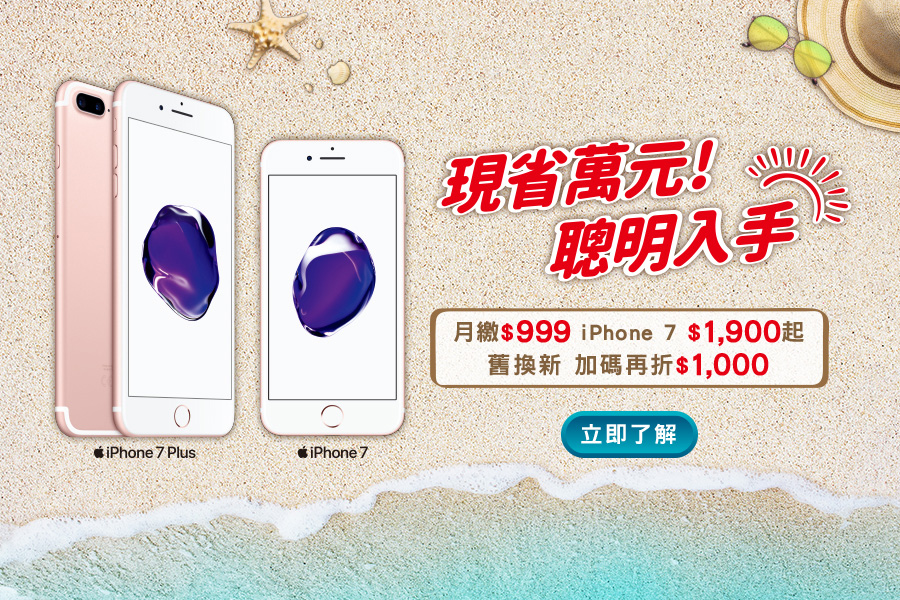
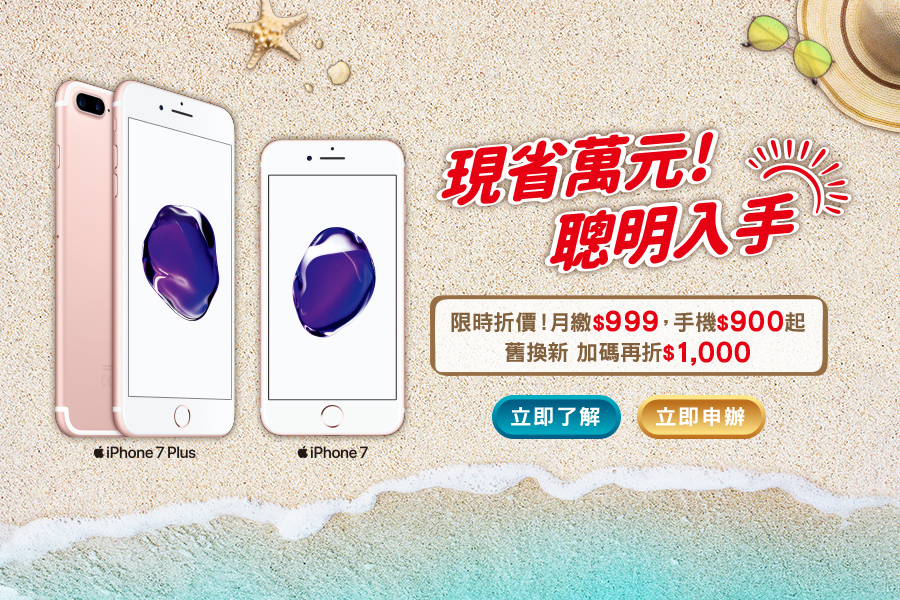
iPhone
首頁banner修改 PC/M，增加按鈕連結
新精選新增banner PC/M，連結設定
方案內容修改
保護文字修改
iPhone 7 費用 三方案全數修改價格

Changed region(s): [[0.4667, 0.21, 0.9644, 0.78]]

diff --git a/demo/iPhone/new.html b/demo/iPhone/new.html
@@ -36,10 +36,12 @@
 		<map name="map_01">
 			<area target="_blank" alt="" title="" onclick="javascript:ga('send', 'event', 'iphoneXS', 'action', 'Buy_from_new');" href="https://iphone-eshop.cdn.hinet.net/Next.html?_ga=2.130746831.1781421612.1537203179-28648395.1509459132" coords="531,341,652,388" shape="rect">
 		</map> -->
+		<a href="https://www.cht.com.tw/home/consumer/mobservice/device/phones#!_keyword%3AiPhone%207%26_orderby%3A%26_page%3A1"><img class="desktop-only" src="assets/images/banner_new.jpg" /></a>
+		<a href="https://www.cht.com.tw/home/consumer/mobservice/device/phones#!_keyword%3AiPhone%207%26_orderby%3A%26_page%3A1"><img style="width:100%" class="mobile-only" src="assets/images/banner_new_m.jpg" /></a>
 		<!-- <h1 style="line-height:150%;font-size:180%;text-shadow:3px 3px #ddd;color:#ff0000">舊換新 iPhone XS Max / XR最高現省$28,000</h1> -->
-		<h1 style="color:#ff0000;font-size:1.5em;line-height:1.5em;">【超值優惠】<div class="mobile-only"><br></div>月繳$999，iPhone 7 <div class="mobile-only"><br></div>購機價$1,900起聰明入手！</h1>
-		<h1 style="color:#ff0000;font-size:1.5em;line-height:1.5em;">【限時折價】<div class="mobile-only"><br></div>指定機型限時折$2,000　<div class="mobile-only"><br></div>搭配舊換新購機加碼再折$1,000</h1>
-		<h1 style="color:#ff0000;font-size:1.5em;line-height:1.5em;">【限時優惠】<div class="mobile-only"><br></div>買指定機型獨享<img src="assets/images/wordgym_logo.png" /><div class="mobile-only"><br></div>免費體驗1個月</h1>
+		<h1 style="color:#ff0000;font-size:1.35em;line-height:1.5em;">【超值優惠】<div class="mobile-only"><br></div>月繳$999，iPhone 7 <div class="mobile-only"><br></div>購機價$900，現省萬元，聰明入手！</h1>
+		<h1 style="color:#ff0000;font-size:1.35em;line-height:1.5em;">【限時折價】<div class="mobile-only"><br></div>指定機型限時折$2,000　<div class="mobile-only"><br></div>搭配舊換新購機加碼再折$1,000</h1>
+		<h1 style="color:#ff0000;font-size:1.35em;line-height:1.5em;">【限時優惠】<div class="mobile-only"><br></div>買指定機型獨享<img src="assets/images/wordgym_logo.png" /><div class="mobile-only"><br></div>免費體驗1個月</h1>
 		<!-- <h1 style="color:#ff0000;font-size:1.5em;line-height:1.5em;"> 【行動VIP】 購機最高再折$5,000</h1> -->
 		<!-- <h1 style="color:#000;font-size:1.5em;line-height:1.5em;">指定銀行刷卡購機享24期0利率 滿額登錄再送刷卡金！
 			<br class="e_mobile"> <a onclick="javascript:ga('send', 'event', 'iphoneXS', 'action', 'Raffledraw_from_new');"
@@ -66,7 +68,7 @@
 			<table>
 				<tr>
 					<td>活動期間：</td>
-					<td>自108/04/15起至108/06/30</td>
+					<td>自108/04/25起至108/06/30</td>
 				</tr>
 				<tr>
 					<td>申辦地點：</td>
@@ -233,33 +235,43 @@
 				</tr>
 				<tr>
 					<td rowspan="2">iPhone 7
-						<br><b>全新優惠價</b>
+						<br><b>限時折價</b>
 					</td>
 					<td class="newer">32GB</td>
-					<td>6,900</td>
-					<td>1,900</td>
+					<td><span style="text-decoration:line-through;color:#000;">6,900</span><div class="e_pc"></div><br class="e_mobile">
+					  <span>5,900</span></td>
+					<td><span style="text-decoration:line-through;color:#000;">1,900</span><div class="e_pc"></div><br class="e_mobile">
+					  <span>900</span></td>
 					<td>0</td>
 				</tr>
 				<tr>
 					<td>128GB</td>
-					<td>10,900</td>
-					<td>5,900</td>
-					<td>1,900</td>
+					<td><span style="text-decoration:line-through;color:#000;">10,900</span><div class="e_pc"></div><br class="e_mobile">
+					  <span>9,900</span></td>
+					<td><span style="text-decoration:line-through;color:#000;">5,900</span><div class="e_pc"></div><br class="e_mobile">
+				    <span>4,900</span></td>
+					<td><span style="text-decoration:line-through;color:#000;">1,900</span><div class="e_pc"></div><br class="e_mobile">
+				    <span>900</span></td>
 				</tr>
 				<tr>
 					<td rowspan="2">iPhone 7 Plus
-						<br><b>全新優惠價</b>
+						<br><b>限時折價</b>
 					</td>
 					<td class="newer">32GB</td>
-					<td>9,400</td>
-					<td>3,900</td>
+					<td><span style="text-decoration:line-through;color:#000;">9,400</span><div class="e_pc"></div><br class="e_mobile">
+				    <span>8,400</span></td>
+					<td><span style="text-decoration:line-through;color:#000;">3,900</span><div class="e_pc"></div><br class="e_mobile">
+					  <span>2,900</span></td>
 					<td>0</td>
 				</tr>
 				<tr>
 					<td>128GB</td>
-					<td>13,400</td>
-					<td>7,900</td>
-					<td>1,900</td>
+					<td><span style="text-decoration:line-through;color:#000;">13,400</span><div class="e_pc"></div><br class="e_mobile">
+				    <span>12,400</span></td>
+					<td><span style="text-decoration:line-through;color:#000;">7,900</span><div class="e_pc"></div><br class="e_mobile">
+				    <span>6,900</span></td>
+					<td><span style="text-decoration:line-through;color:#000;">1,900</span><div class="e_pc"></div><br class="e_mobile">
+					 <span> 900</span></td>
 				</tr>
 			</tbody>
 		</table>
@@ -420,33 +432,43 @@
 	</tr>
 	<tr>
 		<td rowspan="2">iPhone 7
-			<br><b>全新優惠價</b>
+			<br><b>限時折價</b>
 		</td>
 		<td class="newer">32GB</td>
-		<td>7,900</td>
-		<td>3,900</td>
+		<td><span style="text-decoration:line-through;color:#000;">7,900</span><div class="e_pc"></div><br class="e_mobile">
+	    <span>6,900</span></td>
+		<td><span style="text-decoration:line-through;color:#000;">3,900</span><div class="e_pc"></div><br class="e_mobile">
+		  <span>2,900</span></td>
 		<td>0</td>
 	</tr>
 	<tr>
 		<td>128GB</td>
-		<td>11,900</td>
-		<td>7,900</td>
-		<td>3,900</td>
+		<td><span style="text-decoration:line-through;color:#000;">11,900</span><div class="e_pc"></div><br class="e_mobile">
+		  <span>10,900</span></td>
+		<td><span style="text-decoration:line-through;color:#000;">7,900</span><div class="e_pc"></div><br class="e_mobile">
+	    <span>6,900</span></td>
+		<td><span style="text-decoration:line-through;color:#000;">3,900</span><div class="e_pc"></div><br class="e_mobile">
+	    <span>2,900</span></td>
 	</tr>
 	<tr>
 		<td rowspan="2">iPhone 7 Plus
-			<br><b>全新優惠價</b>
+			<br><b>限時折價</b>
 		</td>
 		<td class="newer">32GB</td>
-		<td>10,400</td>
-		<td>5,900</td>
+		<td><span style="text-decoration:line-through;color:#000;">10,400<br>
+		  <span>9,400</span></td>
+		<td><span style="text-decoration:line-through;color:#000;">5,900<br>
+	    <span>4,900</span></td>
 		<td>0</td>
 	</tr>
 	<tr>
 		<td>128GB</td>
-		<td>14,400</td>
-		<td>9,900</td>
-		<td>3,900</td>
+		<td><span style="text-decoration:line-through;color:#000;">14,400</span><div class="e_pc"></div><br class="e_mobile">
+		  <span>13,400</span></td>
+		<td><span style="text-decoration:line-through;color:#000;">9,900</span><div class="e_pc"></div><br class="e_mobile">
+	    <span>8,900</span></td>
+		<td><span style="text-decoration:line-through;color:#000;">3,900</span><div class="e_pc"></div><br class="e_mobile">
+	    <span>2,900</span></td>
 	</tr>
 
 	</tbody>
@@ -607,33 +629,45 @@
 			</tr>
 			<tr>
 					<td rowspan="2">iPhone 7
-						<br><b>全新優惠價</b>
+						<br><b>限時折價</b>
 					</td>
 					<td class="newer">32GB</td>
-					<td>8,900</td>
-					<td>5,900</td>
-					<td>1,900</td>
+					<td><span style="text-decoration:line-through;color:#000;">8,900</span><div class="e_pc"></div><br class="e_mobile">
+				    <span>7,900</span></td>
+					<td><span style="text-decoration:line-through;color:#000;">5,900</span><div class="e_pc"></div><br class="e_mobile">
+				    <span>4,900</span></td>
+					<td><span style="text-decoration:line-through;color:#000;">1,900</span><div class="e_pc"></div><br class="e_mobile">
+					  <span>900</span></td>
 				</tr>
 				<tr>
 					<td>128GB</td>
-					<td>12,900</td>
-					<td>9,900</td>
-					<td>5,900</td>
+					<td><span style="text-decoration:line-through;color:#000;">12,900</span><div class="e_pc"></div><br class="e_mobile">
+				    <span>11,900</span></td>
+					<td><span style="text-decoration:line-through;color:#000;">9,900</span><div class="e_pc"></div><br class="e_mobile">
+					  <span>8,900</span></td>
+					<td><span style="text-decoration:line-through;color:#000;">5,900</span><div class="e_pc"></div><br class="e_mobile">
+				    <span>4,900</span></td>
 				</tr>
 				<tr>
 					<td rowspan="2">iPhone 7 Plus
-						<br><b>全新優惠價</b>
+						<br><b>限時折價</b>
 					</td>
 					<td class="newer">32GB</td>
-					<td>11,400</td>
-					<td>7,900</td>
-					<td>1,900</td>
+					<td><span style="text-decoration:line-through;color:#000;">11,400</span><div class="e_pc"></div><br class="e_mobile">
+					  <span>10,400</span></td>
+					<td><span style="text-decoration:line-through;color:#000;">7,900</span><div class="e_pc"></div><br class="e_mobile">
+				    <span>6,900</span></td>
+					<td><span style="text-decoration:line-through;color:#000;">1,900</span><div class="e_pc"></div><br class="e_mobile">
+				    <span>900</span></td>
 				</tr>
 				<tr>
 					<td>128GB</td>
-					<td>15,400</td>
-					<td>11,900</td>
-					<td>5,900</td>
+					<td><span style="text-decoration:line-through;color:#000;">15,400</span><div class="e_pc"></div><br class="e_mobile">
+				    <span>14,400</span></td>
+					<td><span style="text-decoration:line-through;color:#000;">11,900</span><div class="e_pc"></div><br class="e_mobile">
+				    <span>10,900</span></td>
+					<td><span style="text-decoration:line-through;color:#000;">5,900</span><div class="e_pc"></div><br class="e_mobile">
+					  <span>4,900</span></td>
 				</tr>
 		</tbody>
 	</table>
@@ -643,10 +677,11 @@
 			 class="fa fa-play-circle" aria-hidden="true"></i>保固服務說明</a>
 	</div>
 	<div class="note3">
-		<h3><span class="h3-border">貼心小叮嚀</h3>
+	  <h3><span class="h3-border">貼心小叮嚀</h3>
 		<ol>
 			<li>詳細方案優惠內容與限制請詳閱<a href="https://eshop.cht.com.tw/home/campaign/newcollection/index.html" target="_blank">新精選購機方案頁面</a>。</li>
 			<li>108/04/15起至108/06/30止，搭配舊機換新機並申辦大4G方案、新精選購機方案、青春無敵學生方案，購買iPhone XS Max / iPhone XS/ iPhone XR/ iPhone 7 / iPhone 7 Plus折價1,000元，若申辦大4G方案或新精選購機方案購買iPhone XS Max / iPhone XS/ iPhone XR，月繳999/1,199元購機折1,000元、月繳1,399元以上購機折2,000元，手機促銷至多折至0元止。舊機回收價格將依市場行情適時調整，舊機可折抵金額以門市現場實際判定及報價為準。舊機回收相關條件與內容請參考<a href="https://www.cht.com.tw/home/campaign/cht_recycle/index.html">https://www.cht.com.tw/home/campaign/cht_recycle/index.html</a></li>
+			<li>iPhone 7 限時折價優惠活動期間至108/05/30止，限搭配新精選購機方案，手機促銷至多折至0元止。</li>
 			<li>108/04/01起至108/06/30止，至中華電信搭配指定方案或單購機購買iPhone XS Max/iPhone XS/ iPhone XR即可享獨家World Gym健身俱樂部免費體驗1個月，本活動僅限非World Gym現有會籍且須年滿20歲以上之購機客戶使用，客戶需於108/07/31前憑購機發票或申請書(擇一) 至全台World Gym申請(不適用於FITZONE、預售俱樂部)。本免費體驗一個月活動係由World Gym公司主辦，如有體驗相關問題請洽World Gym 24小時服務專線：04-3600-9898。</li>
 			<li>iPhone銷售門市詳細資訊請至中華電信官網服務據點<a href="http://www.cht.com.tw/portal/Location" target="_blank">查詢</a>。上述機型/顏色/容量供貨情況依各銷售門市現場為準，數量有限售完為止，詳情請洽門市人員。</li>
 			<li>上述優惠內容與相關條件限制依申辦現場同意書為準，中華電信與World Gym保有隨時修正、暫停、中止本活動之權利。</li>

diff --git a/demo/iPhone/index.html b/demo/iPhone/index.html
@@ -44,7 +44,8 @@
 						<div class="box desktop-only">
 				<img class="index-image-iphone desktop-only" src="assets/images/banner_save.jpg" usemap="#image-map2">
 				<map name="image-map2">
-					<area target="_blank" onclick="javascript:ga('send', 'event', 'iphone7sale', 'action', 'buy_from_bigbanner');" href="http://iphone.emome.net/plan_4g.html" coords="561,412,697,458" shape="rect">
+    				<area target="_blank" onclick="javascript:ga('send', 'event', 'iphone7sale', 'action', 'buy_from_bigbanner');" href="http://iphone.emome.net/plan_4g.html" coords="491,394,621,441" shape="rect">
+    				<area target="_blank" onclick="javascript:ga('send', 'event', 'iphone7sale', 'action', 'buy_from_bigbanner');"href="https://www.cht.com.tw/home/consumer/mobservice/device/phones#!_keyword%3AiPhone%207%26_orderby%3A%26_page%3A1" coords="639,392,765,439" shape="rect">
 				</map>
 				</div>
 				</div>
@@ -53,7 +54,8 @@
 						<div class="box ">
 							<img class="index-image-iphone mobile-only " src="assets/images/banner_save_m.jpg" usemap="#image-map3">
 							<map name="image-map3">
-								<area target="_blank" onclick="javascript:ga('send', 'event', 'iphone7sale', 'action', 'buy_from_bigbanner');" href="http://iphone.emome.net/plan_4g.html" coords="136,419,224,449"  shape="rect">
+								<area target="_blank" onclick="javascript:ga('send', 'event', 'iphone7sale', 'action', 'buy_from_bigbanner');" href="http://iphone.emome.net/plan_4g.html" coords="80,375,157,400" shape="rect">
+    							<area target="_blank" onclick="javascript:ga('send', 'event', 'iphone7sale', 'action', 'buy_from_bigbanner');" href="https://www.cht.com.tw/home/consumer/mobservice/device/phones#!_keyword%3AiPhone%207%26_orderby%3A%26_page%3A1" coords="169,375,236,400" shape="rect">
 							</map>
 						</div>
 					</div>

diff --git a/demo/iPhone/assets/css/app.css b/demo/iPhone/assets/css/app.css
@@ -1277,13 +1277,14 @@ a {
 }
 
 .main-rateplan {
-  padding-top: 190px;
+  padding-top: 160px;
 }
 
 @media screen and (max-width: 639px) {
   .main-rateplan {
     padding-left: 5px;
     padding-right: 5px;
+    padding-top: 190px;
   }
 }
 
